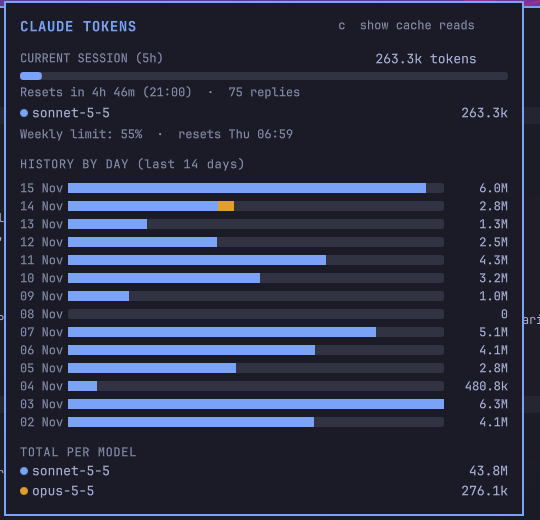
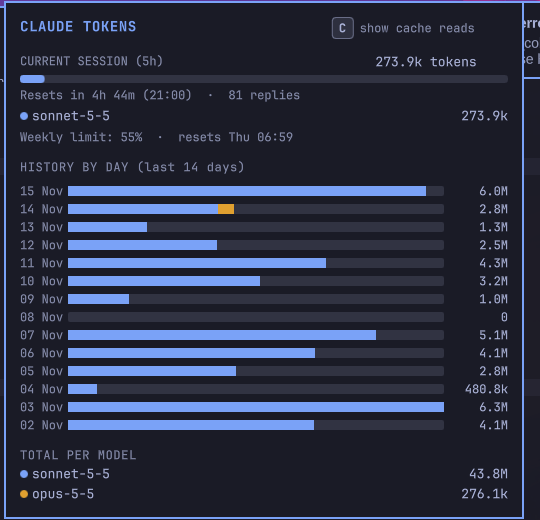
Show shortcut hints as a keycap so the key reads as a control

diff --git a/KeyHint.qml b/KeyHint.qml
@@ -1,0 +1,62 @@
+import QtQuick
+import qs.Commons
+import qs.Ui
+
+// A keyboard shortcut hint: the key drawn as a keycap, then what it does.
+// Clicking it triggers the same action as pressing the key.
+Item {
+  id: hint
+
+  property string keyName: ""
+  property string label: ""
+  property color textColor: Color.popups.text
+  property string fontFamily: Style.font.family
+  signal activated()
+
+  implicitWidth: row.implicitWidth
+  implicitHeight: row.implicitHeight
+
+  Row {
+    id: row
+    spacing: Style.space(6)
+
+    Rectangle {
+      id: cap
+      anchors.verticalCenter: parent.verticalCenter
+      width: Math.max(height, keyText.implicitWidth + Style.space(10))
+      height: keyText.implicitHeight + Style.space(6)
+      radius: Style.space(4)
+      color: area.containsMouse ? Util.alpha(hint.textColor, 0.28) : Util.alpha(hint.textColor, 0.14)
+      border.width: 1
+      border.color: Util.alpha(hint.textColor, 0.55)
+
+      Text {
+        id: keyText
+        anchors.centerIn: parent
+        text: hint.keyName.toUpperCase()
+        textFormat: Text.PlainText
+        color: hint.textColor
+        font.family: hint.fontFamily
+        font.pixelSize: Style.font.body
+        font.bold: true
+      }
+    }
+
+    Text {
+      anchors.verticalCenter: parent.verticalCenter
+      text: hint.label
+      textFormat: Text.PlainText
+      color: Util.alpha(hint.textColor, 0.75)
+      font.family: hint.fontFamily
+      font.pixelSize: Style.font.body
+    }
+  }
+
+  MouseArea {
+    id: area
+    anchors.fill: parent
+    hoverEnabled: true
+    cursorShape: Qt.PointingHandCursor
+    onClicked: hint.activated()
+  }
+}

diff --git a/Panel.qml b/Panel.qml
@@ -164,12 +164,13 @@ Panel {
             font.bold: true
           }
           Item { width: parent.width - hint.implicitWidth - 150; height: 1 }
-          Text {
+          KeyHint {
             id: hint
-            text: root.withCache ? "c  hide cache reads" : "c  show cache reads"
-            color: root.dim
-            font.family: root.family
-            font.pixelSize: Style.font.body
+            keyName: "c"
+            label: root.withCache ? "hide cache reads" : "show cache reads"
+            textColor: root.foreground
+            fontFamily: root.family
+            onActivated: root.withCache = !root.withCache
           }
         }
 
